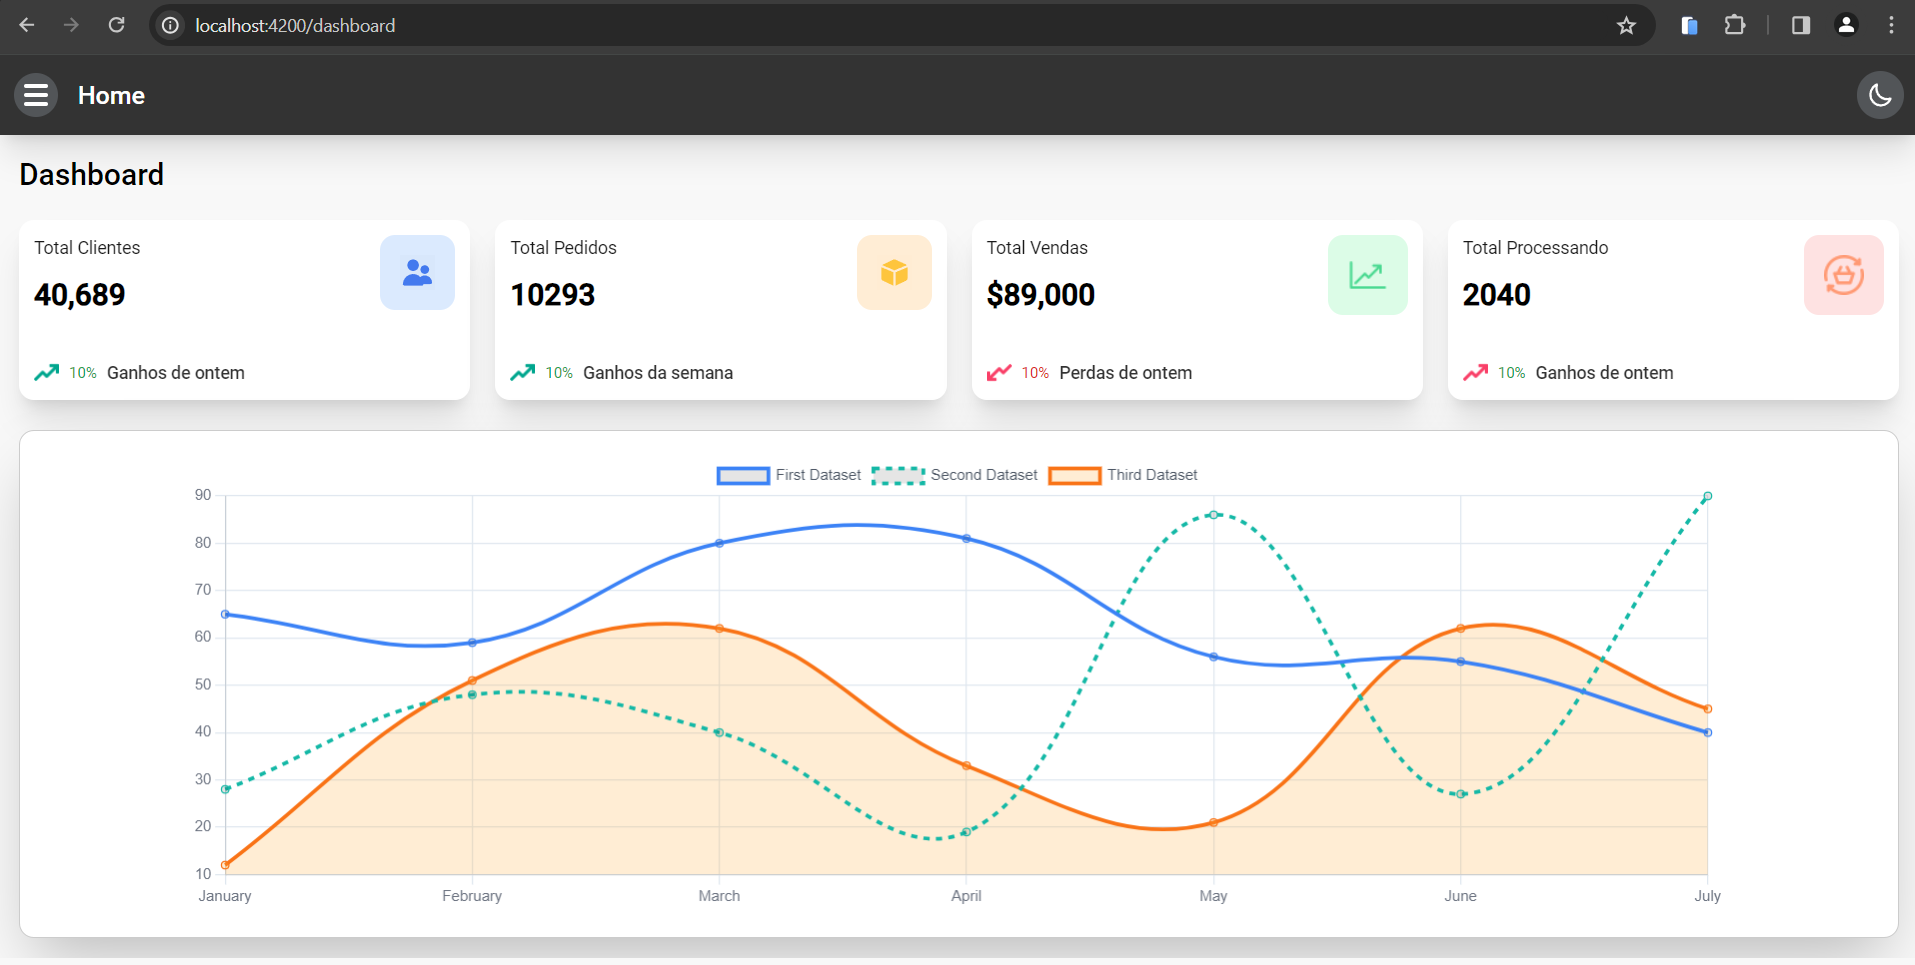
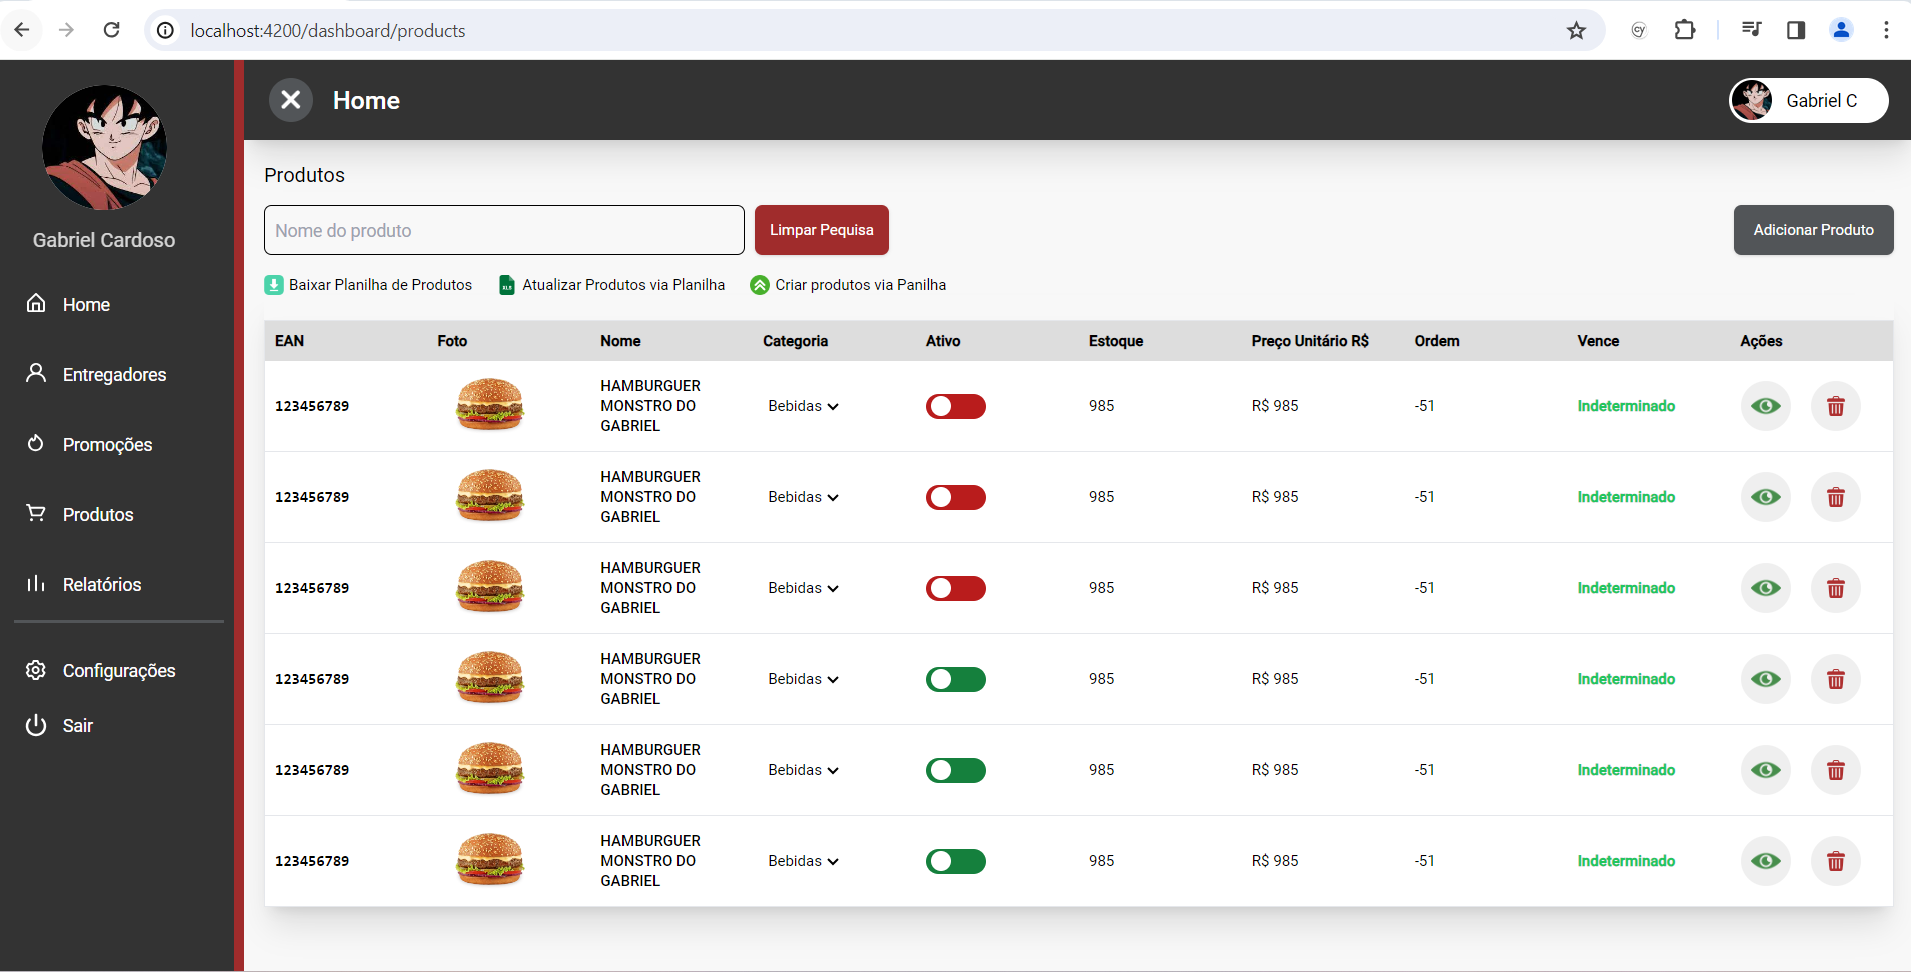
[UPDATE] HeaderComponent

diff --git a/src/app/components/header/header.component.html b/src/app/components/header/header.component.html
@@ -3,10 +3,14 @@
     <app-menu-mobile/>
     <h1 class="header__title text-xl font-medium text-white">Home</h1>
   </div>
-  
+
   <div class="header__content flex gap-4 items-center">
-    <div class="header_content-icon p-2 rounded-full  cursor-pointer bg-brand-quinary hover:opacity-60 hidden md:block">
+    <!-- <div class="header_content-icon p-2 rounded-full  cursor-pointer bg-brand-quinary hover:opacity-60 hidden md:block">
       <img src="assets/icons/moon.svg"/>
+     </div> -->
+    <div class="bg-brand-quaternary w-32 rounded-full p-0.5 flex items-center gap-3 cursor-pointer">
+      <img src="assets/images/goku.jpg" class="min-w-8 max-w-8 rounded-full">
+      <span class="text-sm">Gabriel C</span>
     </div>
   </div>
 </header>

diff --git a/src/app/components/sidenav/sidenav.component.html b/src/app/components/sidenav/sidenav.component.html
@@ -2,7 +2,9 @@
 
   <div  [class.visible]="!showMenu()" class="sidenav__drawer px-4 sm:w-[200px] z-20 pt-5 bg-brand-primary fixed h-full transition-all flex flex-col items-center">
     <div class="sidernav__drawer-profile w-full ps-4 flex flex-col gap-3 items-center relative -translate-x-5">
-      <div class="w-[100px] h-[100px] bg-white rounded-full"></div>
+      <div class="w-[100px] h-[100px] bg-white rounded-full">
+        <img src="assets/images/goku.jpg" class=" rounded-full object-cover">
+      </div>
       <span class="text-white relative opacity-80">Gabriel Cardoso</span>
     </div>
 

diff --git a/README.md b/README.md
@@ -4,17 +4,6 @@
 
 https://github.com/GNobroga/SIGL/assets/88632109/6bd5a540-d507-4b9a-9326-6e1bb5d829c3
 
-![alt text](image-5.png)
-
-![alt text](image-6.png)
-
-![alt text](image-4.png)
-
 ![alt text](image.png)
-
-![alt text](image-1.png)
-
-![alt text](image-3.png)
-
 
 ### Feito por amor por mim <3
